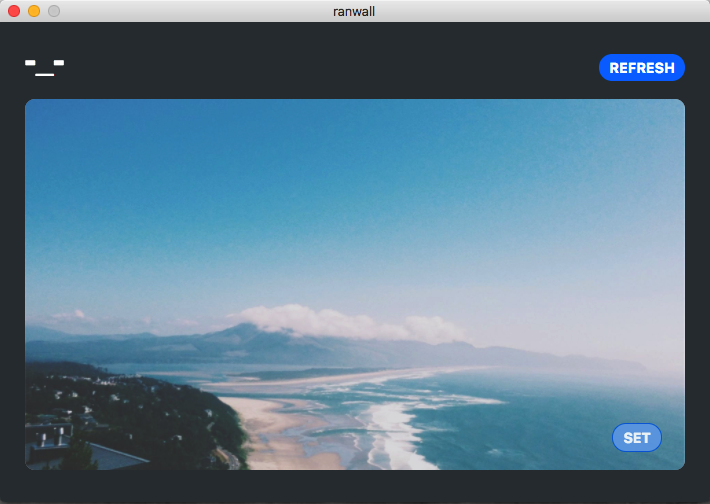
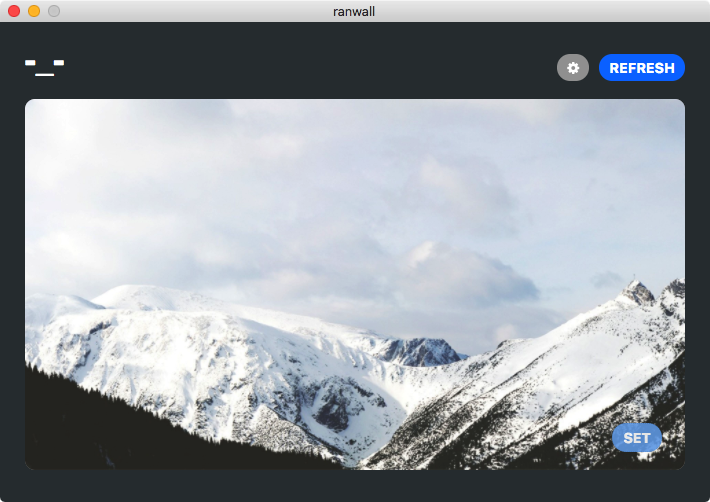
v.0.2

diff --git a/app/js/app.js b/app/js/app.js
@@ -1,10 +1,12 @@
 'use strict';
 
 angular.module('app', ['angularRandomString', 'LocalStorageModule'])
-	.constant('URL_RANDOM_WALLPAPERS','http://unsplash.it/1920/1080/?random')
+	.constant('USER_RESOLUTION', [window.screen.width, window.screen.height])
+	.constant('URL_RANDOM_WALLPAPERS','http://unsplash.it/{x}/{y}/?random')
 	.constant('PLATFORM', process.platform)
-	.constant('WALLPAPERS_FOLDER', (process.env[(process.platform == 'win32') ? 'USERPROFILE' : 'HOME'])+"/Library/ranwall")
-    .constant('WALLPAPER_NAME', '')
+	.constant('WALLPAPERS_FOLDER', (process.env[(process.platform == 'win32') ? 'USERPROFILE' : 'HOME'])+"/.ranwall")
+    .value('WALLPAPER_NAME', '')
+    .value('isConfigWindowOpen', false)
     .constant('NW', (function(){
 	    var requires = {
 		    gui: require('nw.gui'),
@@ -33,9 +35,73 @@ angular.module('app', ['angularRandomString', 'LocalStorageModule'])
             NW.gui.Window.get().menu = menu;
         }
 	}])
-	.controller('mainController',['$scope', 'wall', 'localStorageService', function($scope, $wall, $localStorageService) {
+	.controller('mainController',['$scope', 'wall', 'localStorageService', 'NW', 'isConfigWindowOpen', 'PLATFORM', function($scope, $wall, $localStorageService, NW, _isConfigWindowOpen, PLATFORM) {
+		NW.win.on('close', function() {
+        	NW.gui.App.quit();
+        });
+
 		$wall.new();
 
 		$scope.refreshBtnClick = $wall.new;
 		$scope.setBtnClick = $wall.set;
+
+		$scope.openConfig = function () {
+			if(!_isConfigWindowOpen){
+				_isConfigWindowOpen = true;
+
+				NW.gui.Window.open('app/config.html', {
+					position: 'center',
+					width: 466,
+					height: 216,
+					resizable:false
+				},
+				function(win){    					
+					win.on('closed', function() {
+						_isConfigWindowOpen = false;
+
+						if (PLATFORM == "darwin") {
+							var menu = new NW.gui.Menu({type: "menubar"});
+							menu.createMacBuiltin && menu.createMacBuiltin("on my wall");
+							NW.gui.Window.get().menu = menu;
+						}
+					});
+				});
+			}
+		}
+	}]).controller('configController',['$scope', 'wall', 'localStorageService', 'USER_RESOLUTION', function($scope, $wall, $localStorageService, _USER_RESOLUTION) {
+		var resolution = ($localStorageService.get('user_resolution') == undefined) ? _USER_RESOLUTION : JSON.parse("["+$localStorageService.get('user_resolution')+"]");
+		$scope.res_x = resolution[0];
+		$scope.res_y = resolution[1];
+
+        $scope.$watch('res_x', function() {
+        	if($scope.res_x >= 1920)
+        		$localStorageService.set('user_resolution', [$scope.res_x, $scope.res_y]);
+        }, true);
+
+        $scope.$watch('res_y', function() {
+            if($scope.res_y >= 1080)
+        		$localStorageService.set('user_resolution', [$scope.res_x, $scope.res_y]);
+        }, true);
+
+        $scope.resolution_input = function (size) {
+        	switch (size) {
+        		case "hd":
+        			$scope.res_x = 1920;
+        			$scope.res_y = 1080;
+        			break;
+        		case "4k":
+        			$scope.res_x = 3840;
+        			$scope.res_y = 2160;
+        			break;
+        		default:
+        			$scope.res_x = _USER_RESOLUTION[0];
+        			$scope.res_y = _USER_RESOLUTION[1];
+        			break;
+        	}
+        };
+
+        $scope.deleteCache = function () {
+        	$wall._purgeWallpapersFolder();
+        	$localStorageService.clearAll();
+        }
 	}]);

diff --git a/app/scss/app.scss b/app/scss/app.scss
@@ -17,12 +17,13 @@ header{
 
 	button {
 		float: right;
+        margin-left: 10px;
 		margin-top: 12px
 	}
 }
 
 
-button, .button {
+button, .button, input[type="button"] {
     border: 0px;
     border-radius: 20px;
     background-color: #007aff;
@@ -39,9 +40,17 @@ button, .button {
 	    opacity: 0.9;
 	}
 
+    &.grey {
+        background-color: #a0a0a0;
+    }
+
 	&[disabled]{
 		cursor: default;
 	}
+
+    &:hover{
+        opacity: 0.95;
+    }
 }
 
 $border_radius_wall: 10px;
@@ -81,7 +90,7 @@ $border_radius_wall: 10px;
 	    margin-right: 2%;
 
 	    button {
-		    border: 1px dotted #006adc;
+		    border: 1px dotted #4e88c5;
 		}
 	}
 }
@@ -93,5 +102,71 @@ $border_radius_wall: 10px;
     }
     to {
         opacity:0.8;
+    }
+}
+
+input[type="text"], input[type="email"], input[type="password"], input[type="number"], textarea{
+    padding: 4px 10px;
+    border-radius: 20px;
+    border: 1px solid #ccc;
+    font-size: 14px;
+
+    &:focus{
+        outline:none;
+        border-color: #bbb 
+    }
+}
+
+
+input[type="number"]{
+    padding-right: 0px;
+}
+
+body.config{
+    background: #f2f2f2;
+    color: #000;
+    font-family: Helvetica;
+    overflow: auto;
+
+    .content {
+        display: table;
+
+        h2{
+            text-align: right;
+            font-size: 15px;
+            padding: 5px 17px;
+        }
+
+        .config-option {
+            min-width: 200px;
+            margin-bottom: 15px;
+            margin-top: 7px;
+
+            span.x {
+                font-size: 12px;
+                font-weight: bold;
+                margin: 0 3px;
+            }
+
+            span.info {
+                position: relative;
+                top: 7px;
+                font-size: 10px;
+                color: #444;
+                display:block
+            }
+
+            label{
+                font-size: 14px;
+                &.block{
+                    display: block;
+                    margin-bottom: 6px;
+                }
+            }
+
+            #resolution_x, #resolution_y{
+                width: 50px;
+            }
+        }
     }
 }

diff --git a/app/js/wall.js b/app/js/wall.js
@@ -8,7 +8,7 @@
  * Factory in the app
  */
 angular.module('app')
-  .factory('wall', ['URL_RANDOM_WALLPAPERS', 'WALLPAPER_NAME', 'WALLPAPERS_FOLDER', 'NW', 'localStorageService', 'randomString', function(_URL_RANDOM_WALLPAPERS,  _WALLPAPER_NAME, _WALLPAPERS_FOLDER, NW, $localStorageService, $randomString) {
+  .factory('wall', ['URL_RANDOM_WALLPAPERS', 'USER_RESOLUTION', 'WALLPAPER_NAME', 'WALLPAPERS_FOLDER', 'NW', 'localStorageService', 'randomString', function(_URL_RANDOM_WALLPAPERS, _USER_RESOLUTION,  _WALLPAPER_NAME, _WALLPAPERS_FOLDER, NW, $localStorageService, $randomString) {
           var obj = {
             refresh_preview: function(){
                 var wall_preview = angular.element(document.querySelector("#random-wallpaper-active > img"));
@@ -54,11 +54,13 @@ angular.module('app')
               if(obj._checkAppFolder()){
                   var file = NW.fs.createWriteStream(output);
 
-                  var request = NW.http.get(_URL_RANDOM_WALLPAPERS, function(response) {
+                  var resolution = ($localStorageService.get('user_resolution') == undefined) ? _USER_RESOLUTION : JSON.parse("["+$localStorageService.get('user_resolution')+"]");
+                  var url = _URL_RANDOM_WALLPAPERS.replace("{x}",resolution[0]).replace("{y}",resolution[1]);
+
+                  var request = NW.http.get(url, function(response) {
                       response.pipe(file);
 
                       response.on('end', function(){
-                          $localStorageService.set('ran_set', true);
                           
                           var refresh_button = angular.element(document.querySelector("#refresh-random-wallpaper"));
                               refresh_button.removeAttr("disabled");

diff --git a/app/config.html b/app/config.html
@@ -1,0 +1,41 @@
+<!DOCTYPE HTML>
+<html ng-app="app">
+	<head>
+		<meta charset="UTF-8"/>
+		<title>Configuration:: ranwall</title>
+		<link href="css/app.css" rel="stylesheet"/>
+	</head>
+	<body class="config" ng-controller="configController">
+		
+		<table border="0" class="content">
+			<tr>
+				<td><h2>Wallpaper:</h2></td>
+				<td>
+					<div class="config-option">
+						<label for="resolution_x" class="block">Resolution:</label>
+						<input type="number" id="resolution_x" ng-model="res_x"/><span class="x">x</span><input type="number" id="resolution_y" ng-model="res_y"/>
+						<button class="grey" ng-click="resolution_input('default')" title="Default">DF</button>
+						<button class="grey" ng-click="resolution_input('hd')" title="HD">HD</button>
+						<button class="grey" ng-click="resolution_input('4k')" title="4K">4K</button>
+						<span class="info">+ resolution, + loading time</span>
+					</div>
+				</td>
+			</tr>
+			<tr>
+				<td><h2>Advanced options:</h2></td>
+				<td>
+					<div class="config-option">
+						<button style="display: block" ng-click="deleteCache()">Delete cache</button>
+						<span class="info">If you have set a ranwallpaper, it may not be established when restart the computer.</span>
+					</div>
+				</td>
+			</tr>
+		</table>
+
+		<script src="js/_vendor/angular/angular.js"></script>
+		<script src="js/_vendor/angular-random-string/angular-random-string.js"></script>
+		<script src="js/_vendor/angular-local-storage/angular-local-storage.js"></script>
+		<script type="text/javascript" src="js/app.js"></script>
+		<script type="text/javascript" src="js/wall.js"></script>
+	</body>
+</html>

diff --git a/Gruntfile.js b/Gruntfile.js
@@ -38,6 +38,16 @@ module.exports = function (grunt) {
                     'dist/js/bootstrap.min.js',
                     'themes/base/minified/**'
                   ]
+                },
+                'font-awesome': {
+                  expand: false,
+                  css_dest: 'app/css/',
+                  keepExpandedHierarchy: false,
+                  stripGlobBase: true,
+                  files: [
+                    'css/font-awesome.min.css',
+                    'fonts/*'
+                  ]
                 }
               }
             }

diff --git a/app/index.html b/app/index.html
@@ -5,8 +5,8 @@
     <title>
         ranwall
     </title>
+    <link rel="stylesheet" type="text/css" href="css/font-awesome.min.css"/>
     <link rel="stylesheet" type="text/css" href="css/app.css">
-    
 </head>
 
 <body ng-controller="mainController">

diff --git a/app/partials/header.html b/app/partials/header.html
@@ -1,4 +1,5 @@
 <header>
   <h1>-_-</h1>
   <button id="refresh-random-wallpaper" ng-click="refreshBtnClick()">refresh</button>
+  <button class="grey" id="config" ng-click="openConfig()"><i class="fa fa-cog" aria-hidden="true"></i></button>
 </header>

diff --git a/README.md b/README.md
@@ -6,5 +6,4 @@ With Ranwall you can discover new wallpapers just doing a click, if you like it 
 ![Screenshoot](screenshoot.png)
 
 ## Coming
-- [ ] Wallpaper resolution depending on the computer or user configuration
-- [ ] Option for remove cache
+- [ ] Solve icon resolution on Windows
